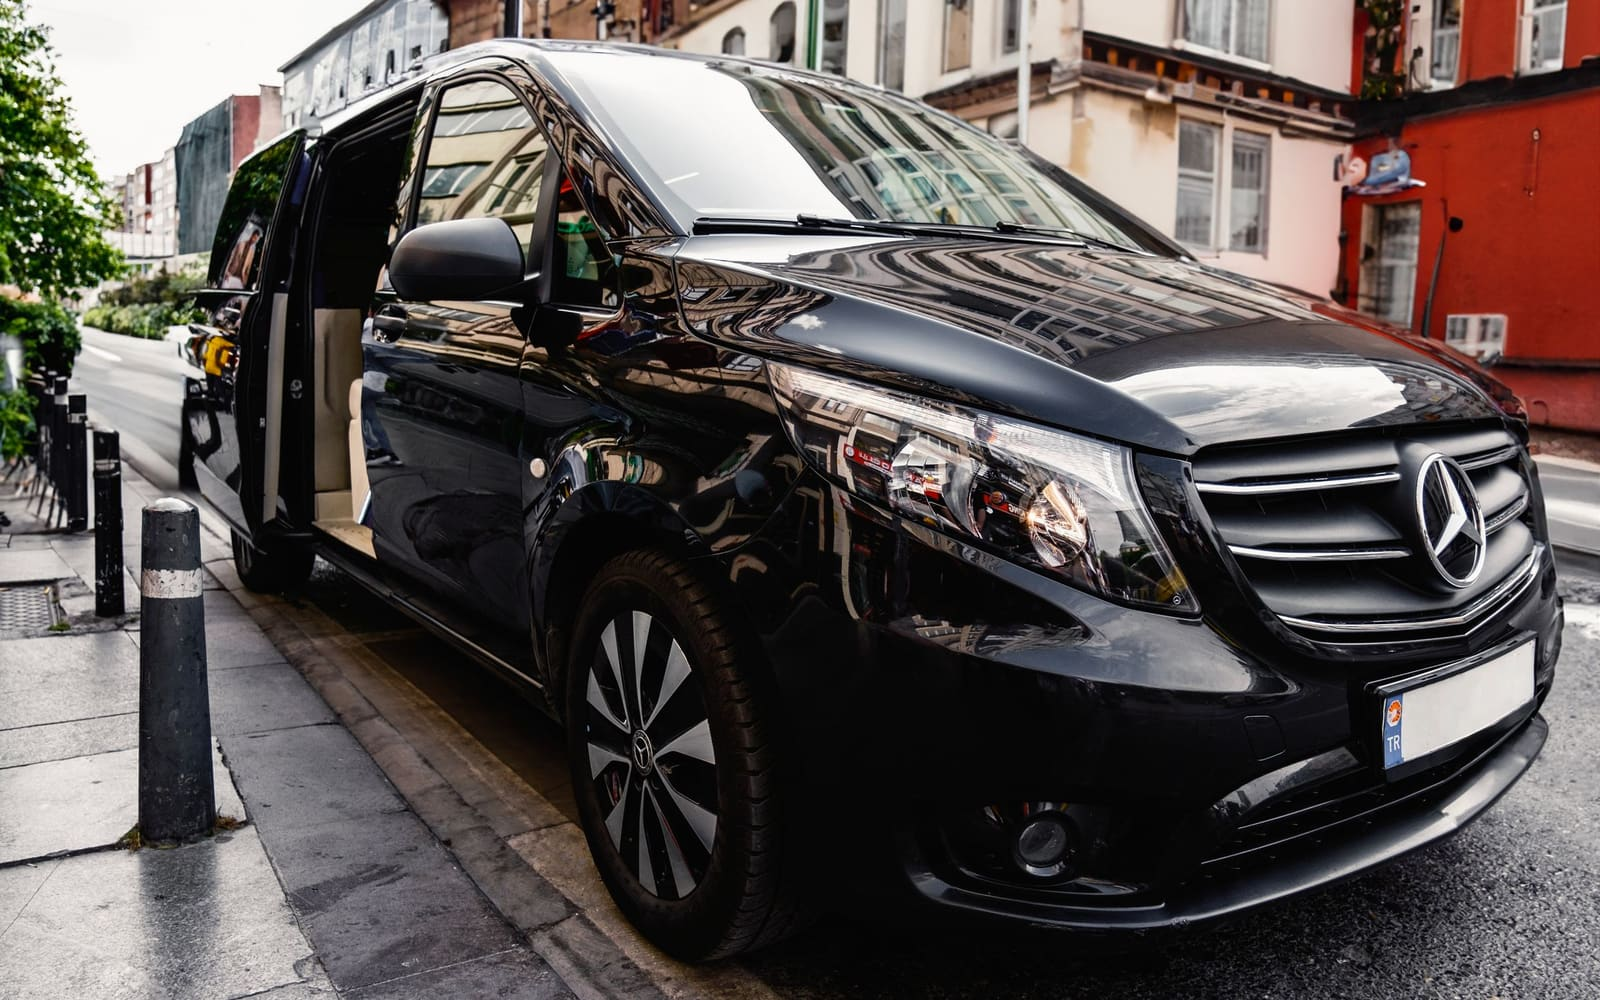
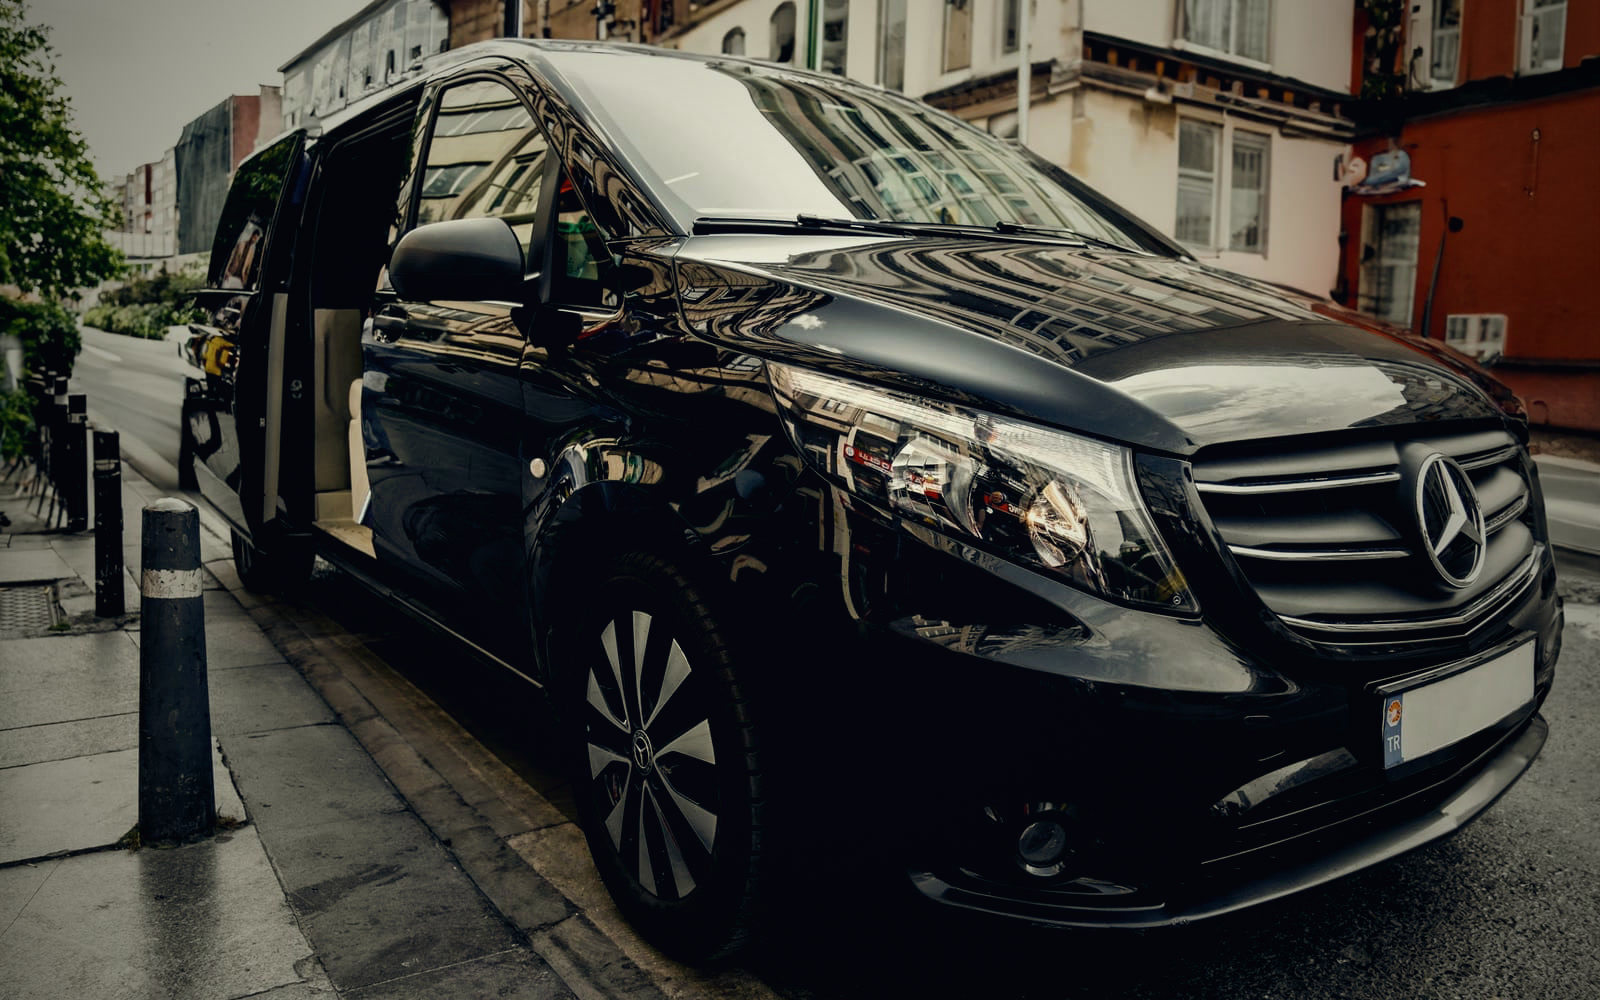
style(images): give every site photo one colour grade
The stock photos each carried their own colour: a purple-and-pink
skyline, a saturated yellow terminal roof, bright blue skies, a
lime-yellow car. Next to the site's ink and gold they read as a
collection of strangers. Each one now gets the same treatment:
magentas and blues pulled down hard, yellows and greens a little,
cooler shadows, warmer highlights, a slightly deeper contrast and a
light vignette. Saved at near-lossless quality; visitors still get the
resized AVIF and WebP copies.

diff --git a/frontend/public/images/CREDITS.md b/frontend/public/images/CREDITS.md
@@ -3,8 +3,9 @@
 Every photograph in this folder comes from [Pexels](https://www.pexels.com) and
 is used under the [Pexels License](https://www.pexels.com/license/): free to
 use, including commercially, with no attribution required. Credit is given here
-anyway. Each photo was cropped and compressed for the website; nothing else was
-changed unless noted.
+anyway. Each photo was cropped, compressed and colour-graded to one common look for the
+website (muted saturation, cooler shadows, warmer highlights, a light vignette);
+nothing else was changed unless noted.
 
 Replace any of them with your own photographs in the operations console
 (`/admin`), or by replacing the file.
